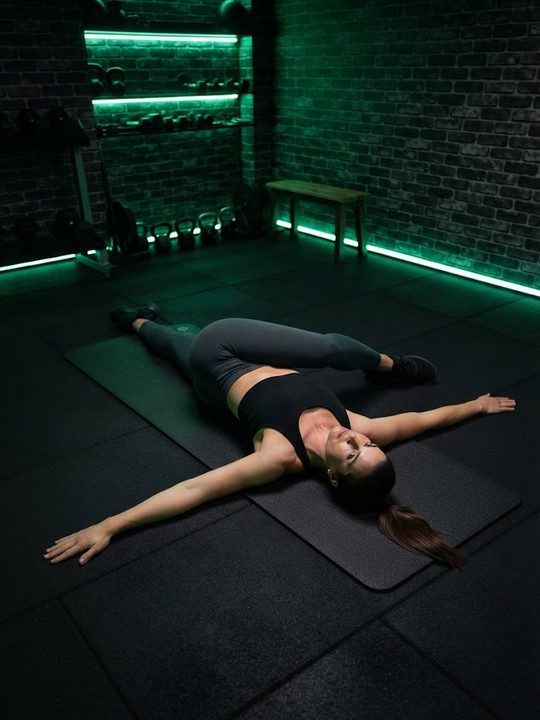
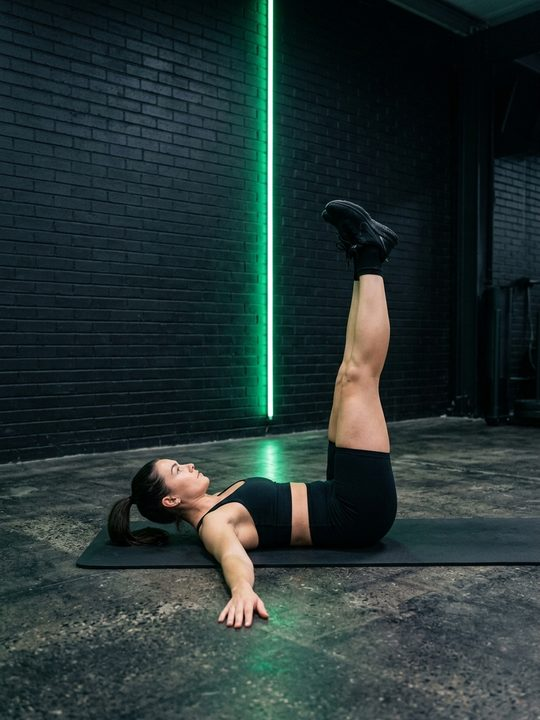
Frauen-GIF lying_crossover
Claude-Session: https://claude.ai/code/session_01PvyiLGJFyas6muFwwubScP

diff --git a/script.js b/script.js
@@ -528,7 +528,7 @@ function renderOverview() {
 // V8-04: Wochenplan-Einträge (haben trainingId) sind anklickbar -> Detailseite mit Dauer/Kalorien.
 // V6-08: Verlauf als Foto-Kacheln mit Wochenkopf, Gruppierung nach Woche/Monat.
 let imgSet = new Set();
-fetch('img/index.json?v=426').then(r => r.json()).then(a => { imgSet = new Set(a); }).catch(() => {});
+fetch('img/index.json?v=427').then(r => r.json()).then(a => { imgSet = new Set(a); }).catch(() => {});
 function slugOf(g) { return (g || '').replace(/^gifs\//, '').replace(/\.gif$/, ''); }
 // Foto passend zum Profil (m/w); ohne Foto -> GIF
 function imgOf(ex) {
